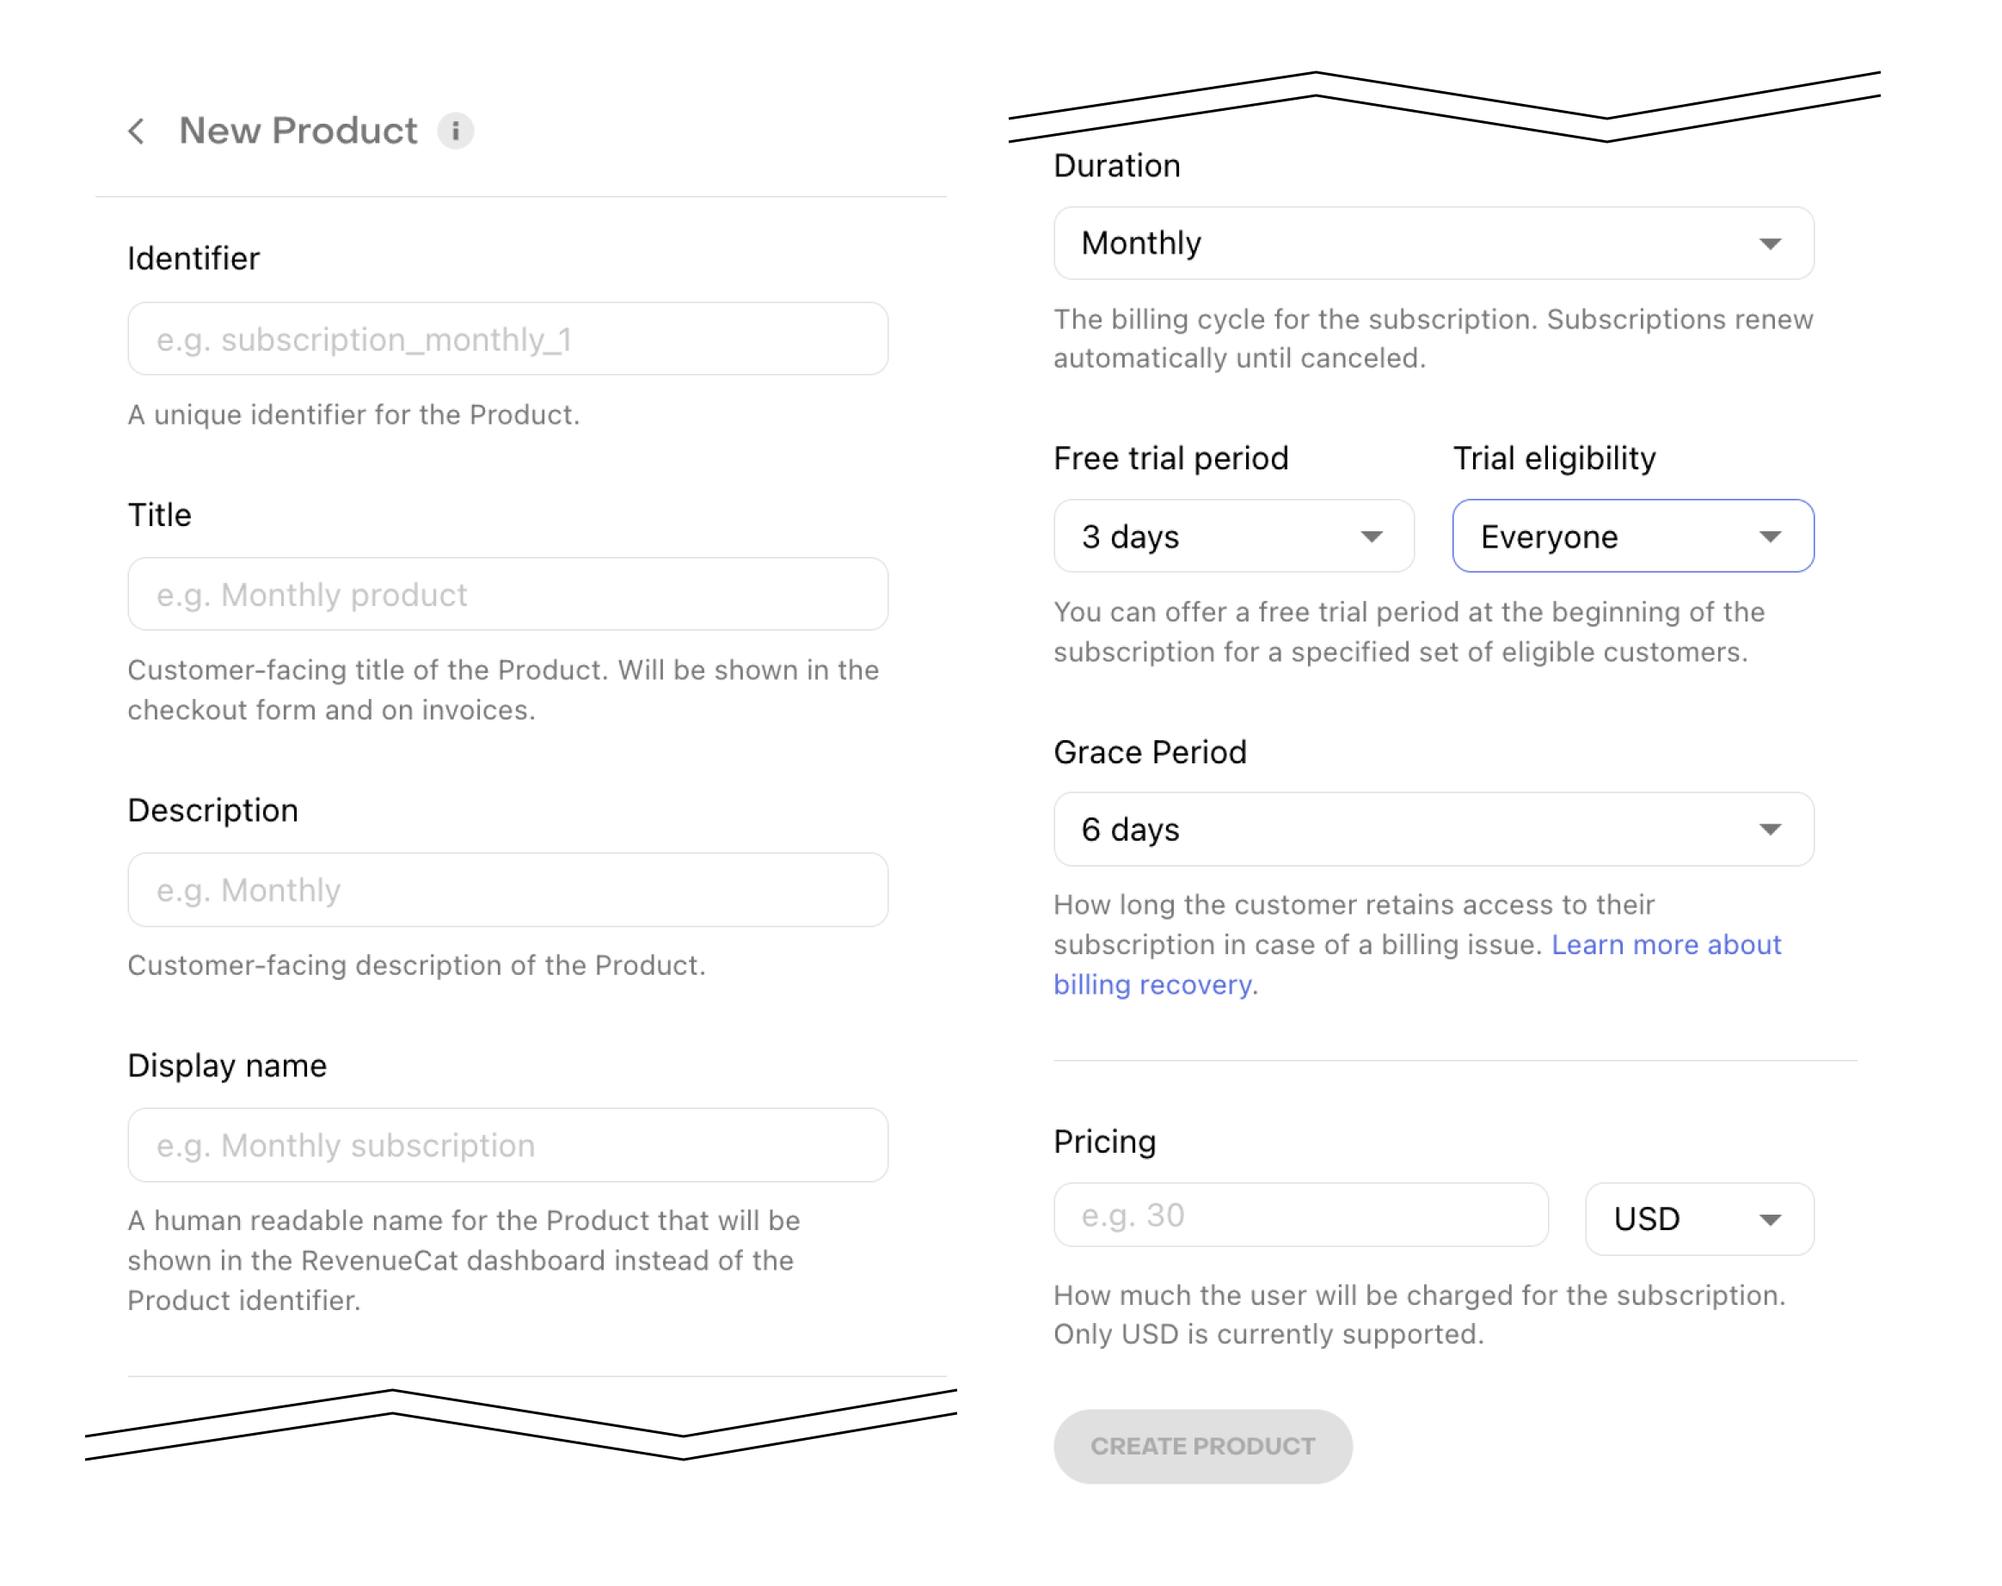
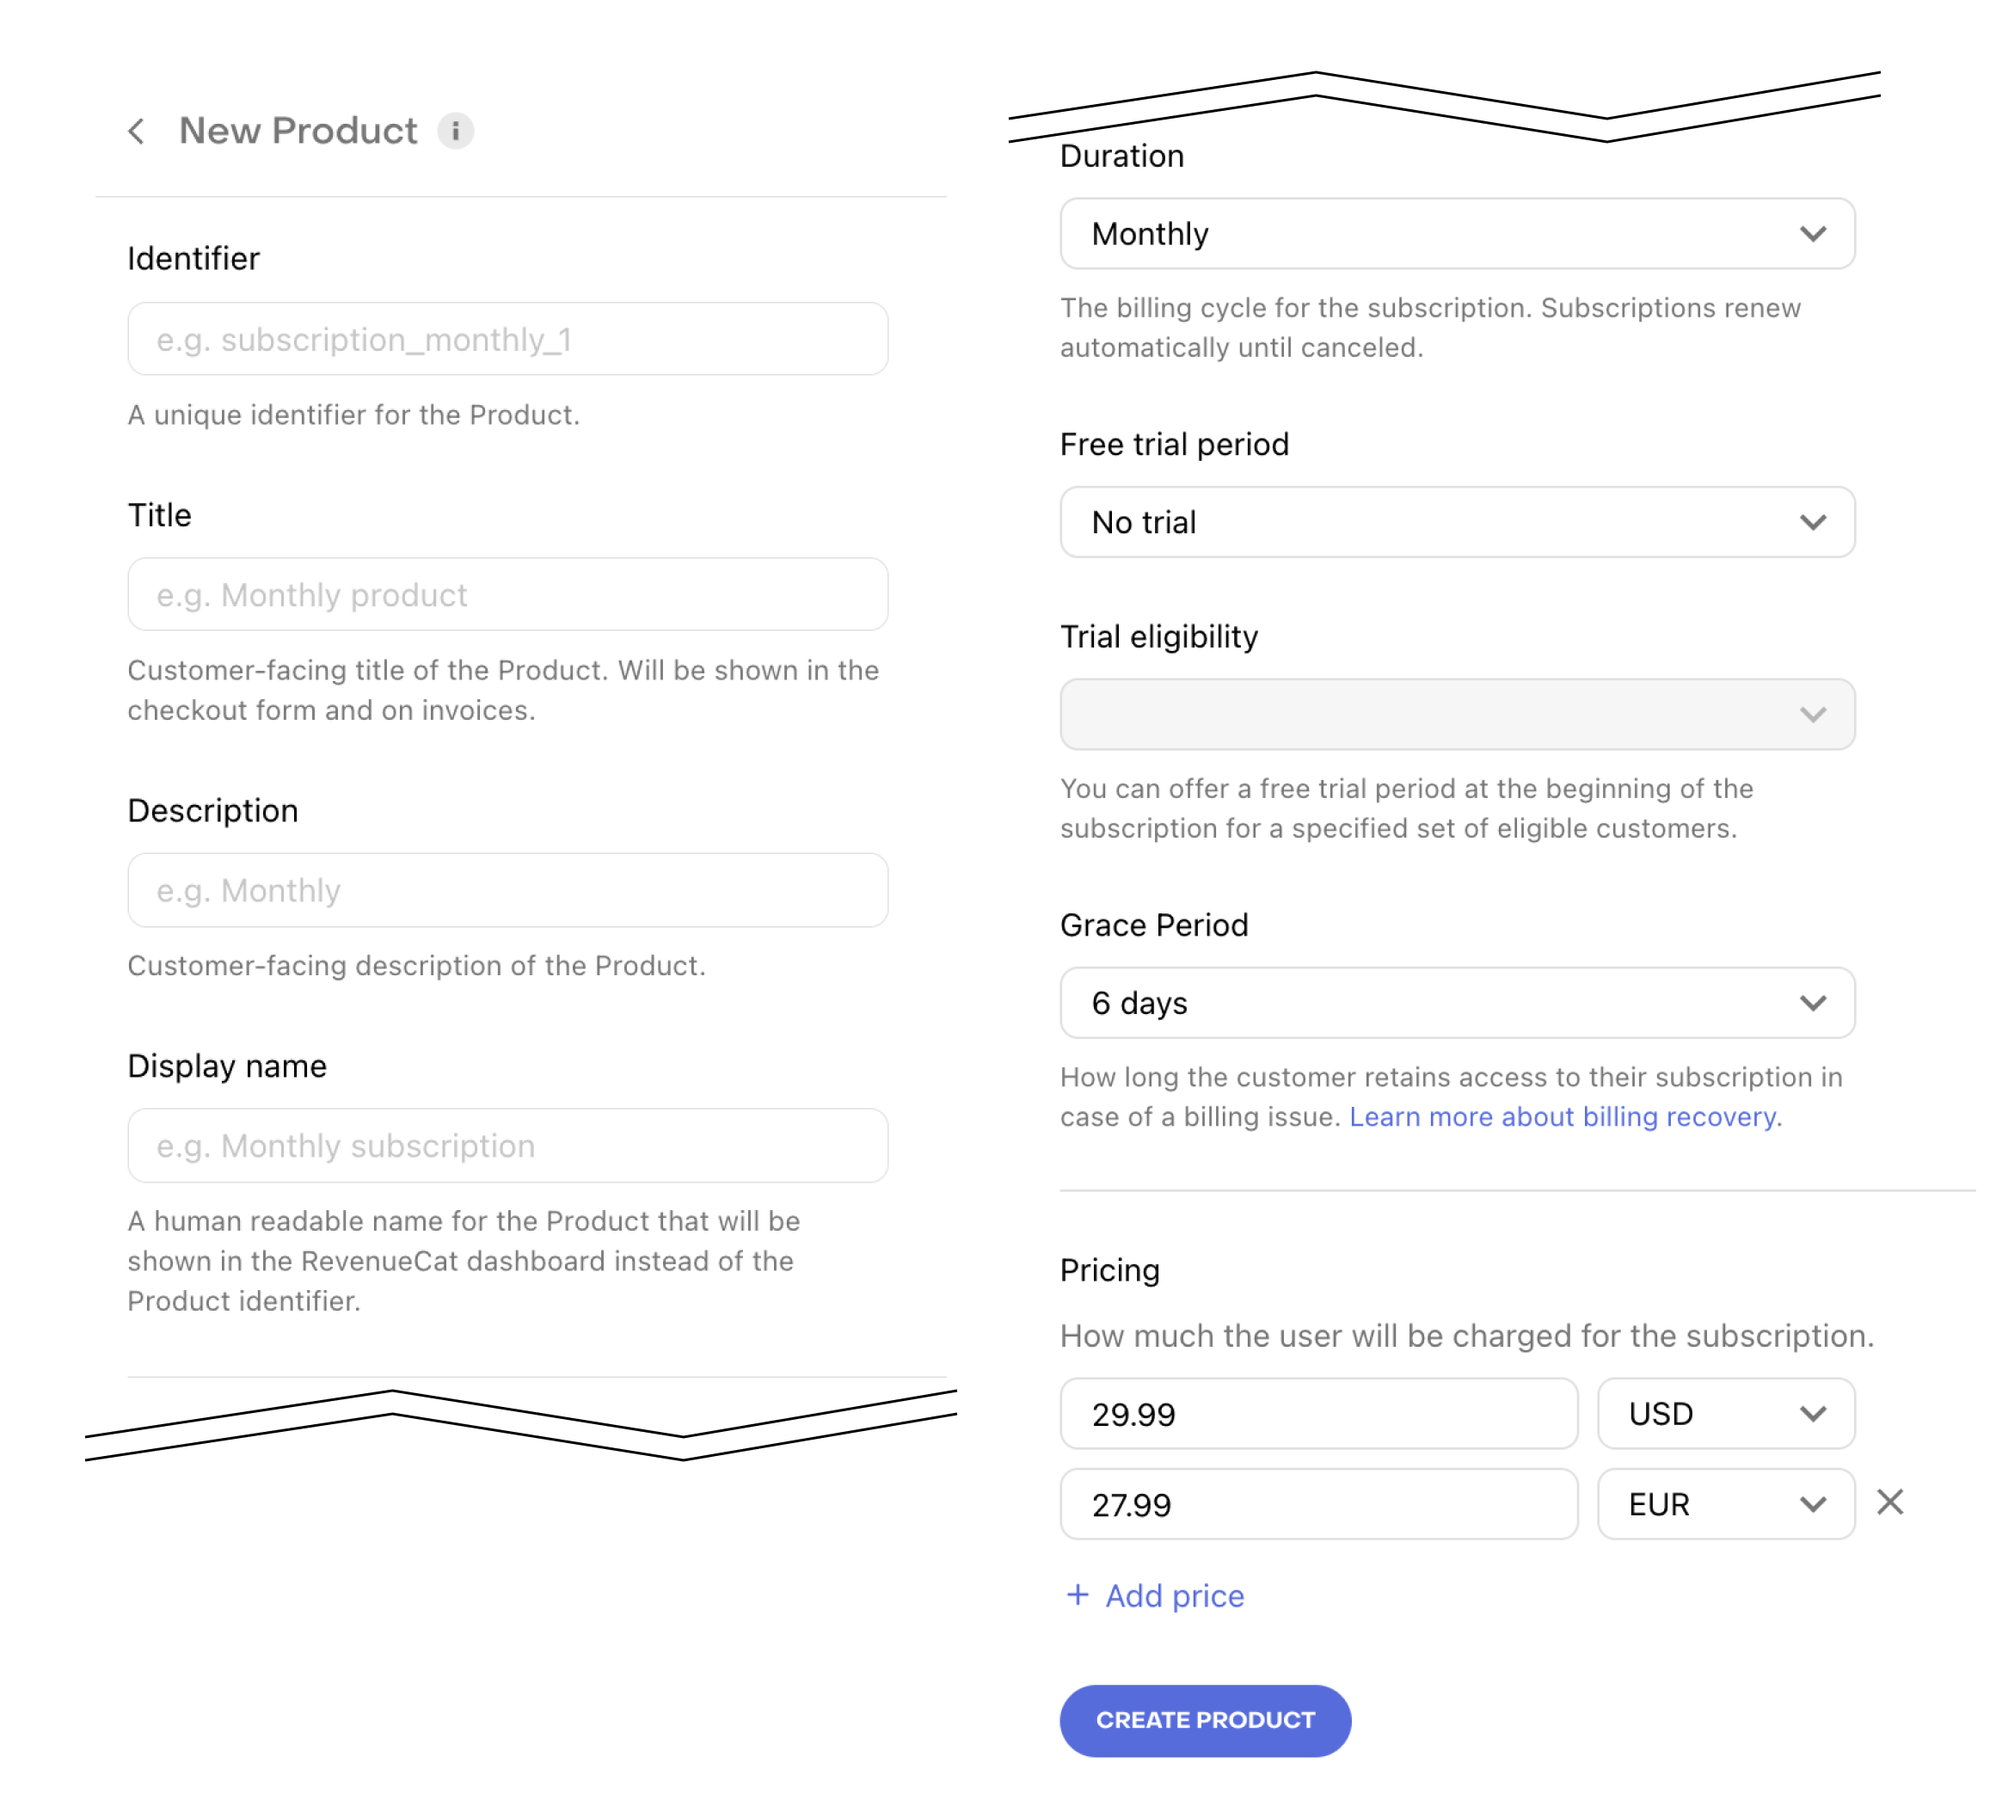
WIP

diff --git a/sidebars.js b/sidebars.js
@@ -162,6 +162,7 @@ const webPurchasesCategory = Category({
       items: [
         Page({ slug: "product-setup" }),
         Page({ slug: "subscription-lifecycle" }),
+        Page({ slug: "multi-currency-support" }),
         Page({ slug: "managing-customer-subscriptions" }),
         Page({ slug: "customer-portal" }),
         Page({ slug: "web-paywall-links" }),

diff --git a/docs/web/revenuecat-billing/product-setup.md b/docs/web/revenuecat-billing/product-setup.md
@@ -29,6 +29,6 @@ In the "new product" screen, you can set up the following properties of the prod
     - *Didn't have any subscription yet*: Only customers that have never had any subscription in this Project (including in other Apps of the project) are eligible for a trial.
     - *Didn't have this subscription yet*: Only customers that have never subscribed to this product are eligible for a trial.
 - **Grace period**: Length of the subscription access retention after a billing issue.
-- **Price**: The price that will be charged for every period of the subscription. Currently, only USD is supported.
+- **Price**: The price that will be charged for every period of the subscription in each currency. You can add prices in additional currencies by clicking "Add price". Only one price can be set per currency. [Read more about multi-currency support in RevenueCat Billing](./multi-currency-support).
 
 ![New product configuration page](/images/rc-billing/new-product-configuration.png)
